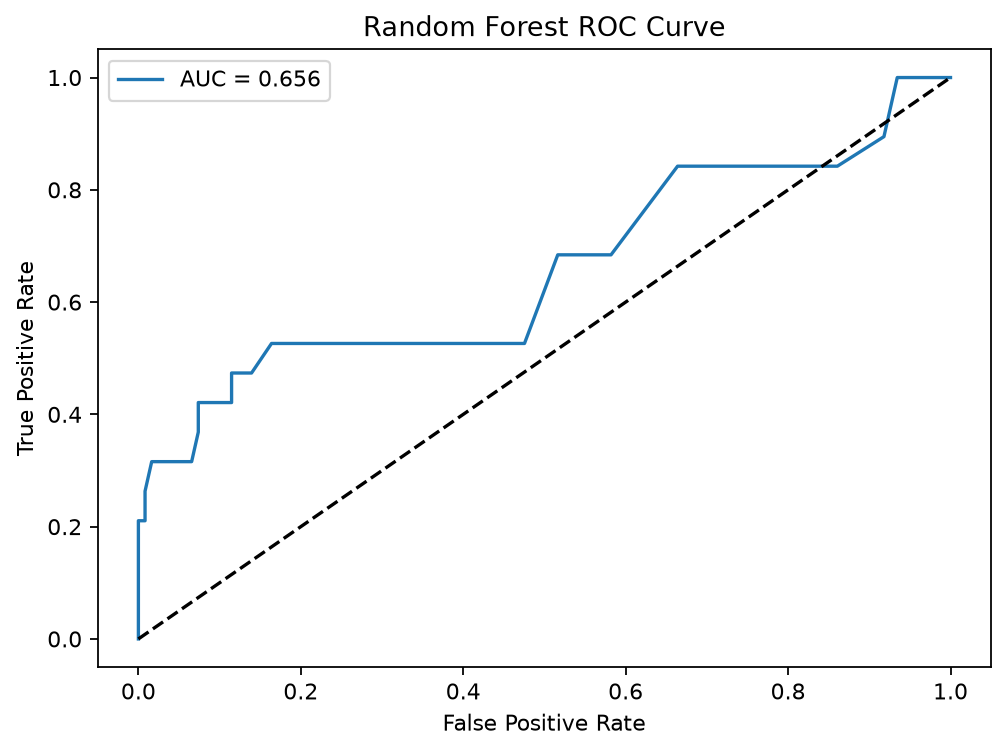
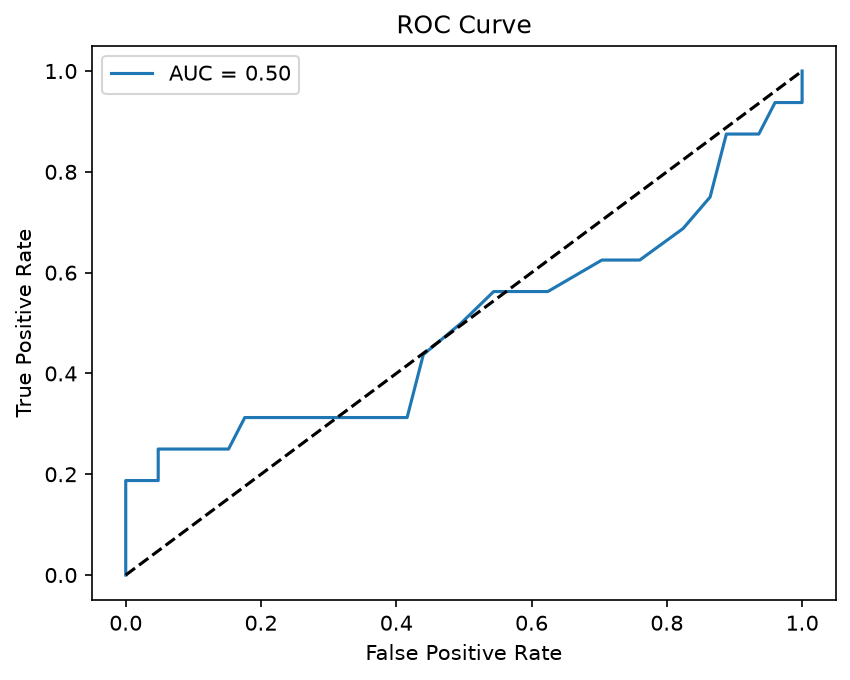
Refresh analysis results and README

diff --git a/README.md b/README.md
@@ -17,9 +17,9 @@ Keep this distinction in mind when interpreting the thesis title and the
 results.
 
 The repository contains the submitted thesis, its supplied tabular dataset, a
-Python implementation of four classifiers, and reproducible result tables and
-figures. `BRCA.py` is the executable analysis; the thesis describes a broader
-research plan and findings than this script implements.
+Python implementation of four classifiers, and saved result tables, a run log,
+and figures. `BRCA.py` is the executable analysis; the thesis describes a
+broader research plan and findings than this script implements.
 
 ## Repository contents
 
@@ -30,6 +30,7 @@ research plan and findings than this script implements.
 | `BRCA.py` | Preprocessing, train/test split, model fitting, evaluation and figure generation |
 | `requirements.txt` | Python dependencies |
 | `results/model_metrics.csv` | Reproduced evaluation metrics for each classifier |
+| `results/run.log` | Console output from the saved-results run |
 | `results/model_accuracy_comparison.png` | Accuracy comparison across classifiers |
 | `results/*_confusion_matrix.png` | Per-classifier confusion matrices |
 | `results/*_roc_curve.png` | Per-classifier ROC curves |
@@ -64,21 +65,24 @@ The dataset has no blank cells in the supplied version. The script retains a
 1. Loads `data.csv` and removes rows with missing values.
 2. Separates all remaining columns into predictors and the `vital.status`
    target.
-3. Creates a stratified 80/20 train/test split with random seed 42. This gives
-   564 training samples and 141 held-out test samples, including 19 class-1
-   samples in the test set.
-4. Fits `StandardScaler` using **training data only**, then applies that fitted
-   scaler to the training and test matrices. This avoids leaking test-set
-   distribution information into preprocessing.
-5. Fits four classifiers with the settings shown in `BRCA.py`:
+3. Scales the complete feature matrix with `StandardScaler`, then creates a
+   shuffled 80/20 train/test split with random seed 42. The split is not
+   stratified; this run has 564 training samples and 141 test samples (125
+   class-0 and 16 class-1).
+4. Fits four classifiers with the settings shown in `BRCA.py`:
    - Random Forest (100 trees)
    - Neural Network / MLP (one hidden layer with 100 units; maximum 500
      iterations)
-   - Linear Support Vector Machine
+   - Linear Support Vector Machine with probability estimates enabled
    - Gradient Boosting (100 estimators)
-6. Reports accuracy, per-class precision/recall/F1, and confusion matrices;
-   calculates ROC-AUC from predicted probabilities or decision scores.
-7. Writes the metric table and PNG figures to `results/`.
+
+   The script fits and evaluates Gradient Boosting twice; the second fit is
+   used for the saved metrics and figures.
+5. Prints accuracy, per-class precision/recall/F1, and confusion matrices;
+   calculates ROC-AUC from predicted probabilities.
+6. The checked-in metric table and PNG figures were saved during this run by a
+   temporary output-capture wrapper; the source script itself only displays
+   plots and does not write these files.
 
 The positive class used for class-1 metrics and ROC analysis is
 `vital.status = 1`. The script does not perform the thesis-described LASSO or
@@ -89,22 +93,21 @@ inputs.
 
 ## Reproduced results
 
-The following table is generated by the current `BRCA.py` run. Accuracy alone
-is not a sufficient measure here: the dataset is imbalanced, so the recall and
-F1-score for class 1 are particularly important.
+The following table summarizes this run. Accuracy alone is not a sufficient
+measure here: the dataset is imbalanced, so the recall and F1-score for class 1
+are particularly important.
 
 | Model | Accuracy | Class-1 precision | Class-1 recall | Class-1 F1 | ROC-AUC |
 | --- | ---: | ---: | ---: | ---: | ---: |
-| Random Forest | 0.8936 | 1.0000 | 0.2105 | 0.3478 | 0.6564 |
-| Neural Network | 0.8794 | 0.6000 | 0.3158 | 0.4138 | 0.5846 |
-| SVM | 0.8298 | 0.3684 | 0.3684 | 0.3684 | 0.6700 |
-| Gradient Boosting | 0.8865 | 0.6364 | 0.3684 | 0.4667 | 0.6562 |
+| Random Forest | 0.9007 | 0.7500 | 0.1875 | 0.3000 | 0.4965 |
+| Neural Network | 0.8936 | 0.5714 | 0.2500 | 0.3478 | 0.5685 |
+| SVM | 0.8440 | 0.2857 | 0.2500 | 0.2667 | 0.5935 |
+| Gradient Boosting | 0.8936 | 0.6000 | 0.1875 | 0.2857 | 0.5620 |
 
-Random Forest has the highest accuracy on this split, while Gradient Boosting
-has the highest class-1 F1-score and SVM has the highest ROC-AUC. All models
-miss a substantial share of class-1 cases: their class-1 recall ranges from
-0.21 to 0.37. These single-split results are exploratory and do not demonstrate
-clinical utility or reliable generalization.
+Random Forest has the highest accuracy, Neural Network the highest class-1
+F1-score, and SVM the highest ROC-AUC on this run. All models miss most
+class-1 cases: recall ranges from 0.19 to 0.25. These single-split results are
+exploratory and do not demonstrate clinical utility or reliable generalization.
 
 ### Accuracy comparison
 
@@ -138,11 +141,11 @@ describes ROC-AUC values of approximately 0.50 (Random Forest), 0.57 (Neural
 Network), 0.59 (SVM), and 0.56 (Gradient Boosting). Those are thesis-reported
 values, not the current run's outputs.
 
-The original script was run before this repository's reproducibility updates
-and produced the reported accuracies. The current script deliberately fits
-scaling on the training set only and uses a stratified split; its scores
-therefore differ and should not be presented as a byte-for-byte reproduction
-of the old evaluation. See `results/model_metrics.csv` for the current run.
+The current script scales before splitting and does not stratify, so test-set
+information leaks into preprocessing and the test class balance varies from a
+stratified split. The current run's results should not be treated as an
+independent or clinical validation. See `results/model_metrics.csv` and
+`results/run.log` for the saved outputs.
 
 ## Interpretation and limitations
 
@@ -156,6 +159,10 @@ of the old evaluation. See `results/model_metrics.csv` for the current run.
   samples. This creates substantial overfitting risk, especially without
   nested validation or feature selection performed entirely inside each
   training fold.
+- **Preprocessing leakage:** `StandardScaler` is fitted before the train/test
+  split, so information from the held-out test data influences preprocessing.
+- **Unstratified split:** the test set contains only 16 of the 94 class-1
+  samples in this run; the reported metrics may be sensitive to the split.
 - **Limited validation:** the reported evaluation uses one random hold-out
   split. There is no cross-validation or independent external cohort in the
   executable analysis.
@@ -174,22 +181,24 @@ exploratory research only.
 
 ## Run the analysis
 
-Use Python 3.10 or newer:
+Use Python 3.10 or newer and install the dependencies:
 
 ```bash
 python -m venv .venv
 source .venv/bin/activate
 python -m pip install -r requirements.txt
-python /path/to/project/BRCA.py
+python BRCA.py
 ```
 
 On Windows, activate the environment with `.venv\Scripts\activate` instead.
-The script reads `data.csv` and writes `results/model_metrics.csv` and the PNG
-plots relative to the script's location, regardless of the current working
-directory. Each run replaces the prior metrics and figures. It also prints
-classification reports to the terminal. The results above were regenerated
-with this command and correspond to the fixed stratified 80/20 split (122
-class-0 and 19 class-1 test samples).
+As supplied, `BRCA.py` reads from the Kaggle path
+`/kaggle/input/brca-multiomics-tcga/data.csv`, not from the repository's
+`data.csv`. In this local run, a temporary in-memory wrapper redirected that
+input to the included CSV, captured the displayed figures, and saved the
+metrics and terminal output under `results/`; no Python source file was
+changed. The wrapper was not checked in, so direct execution outside Kaggle
+requires making the data available at the expected path. The script itself
+does not save result files.
 
 ## Thesis reference
 
